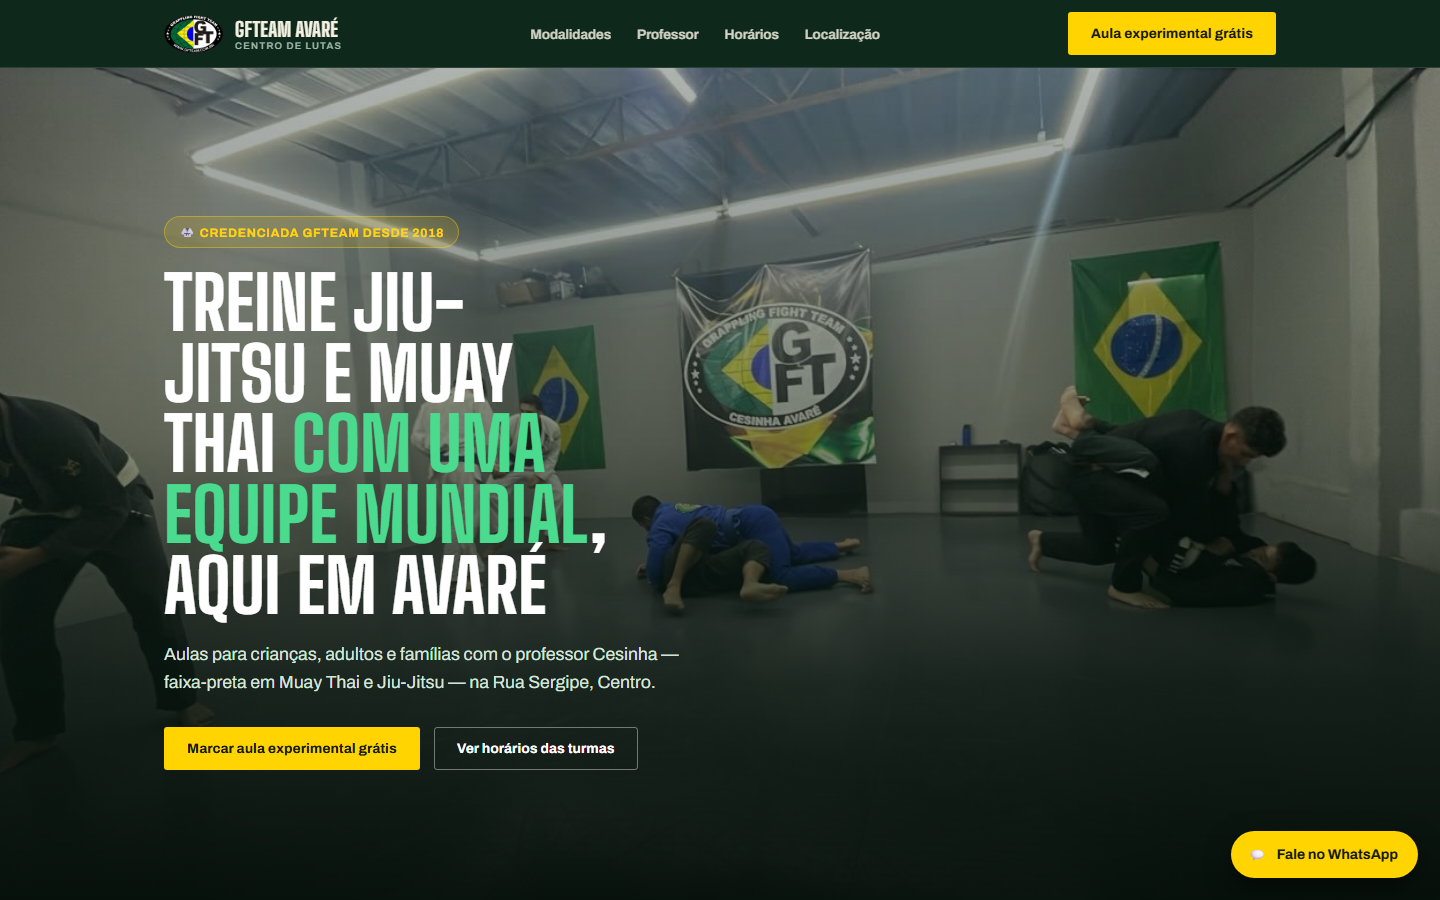
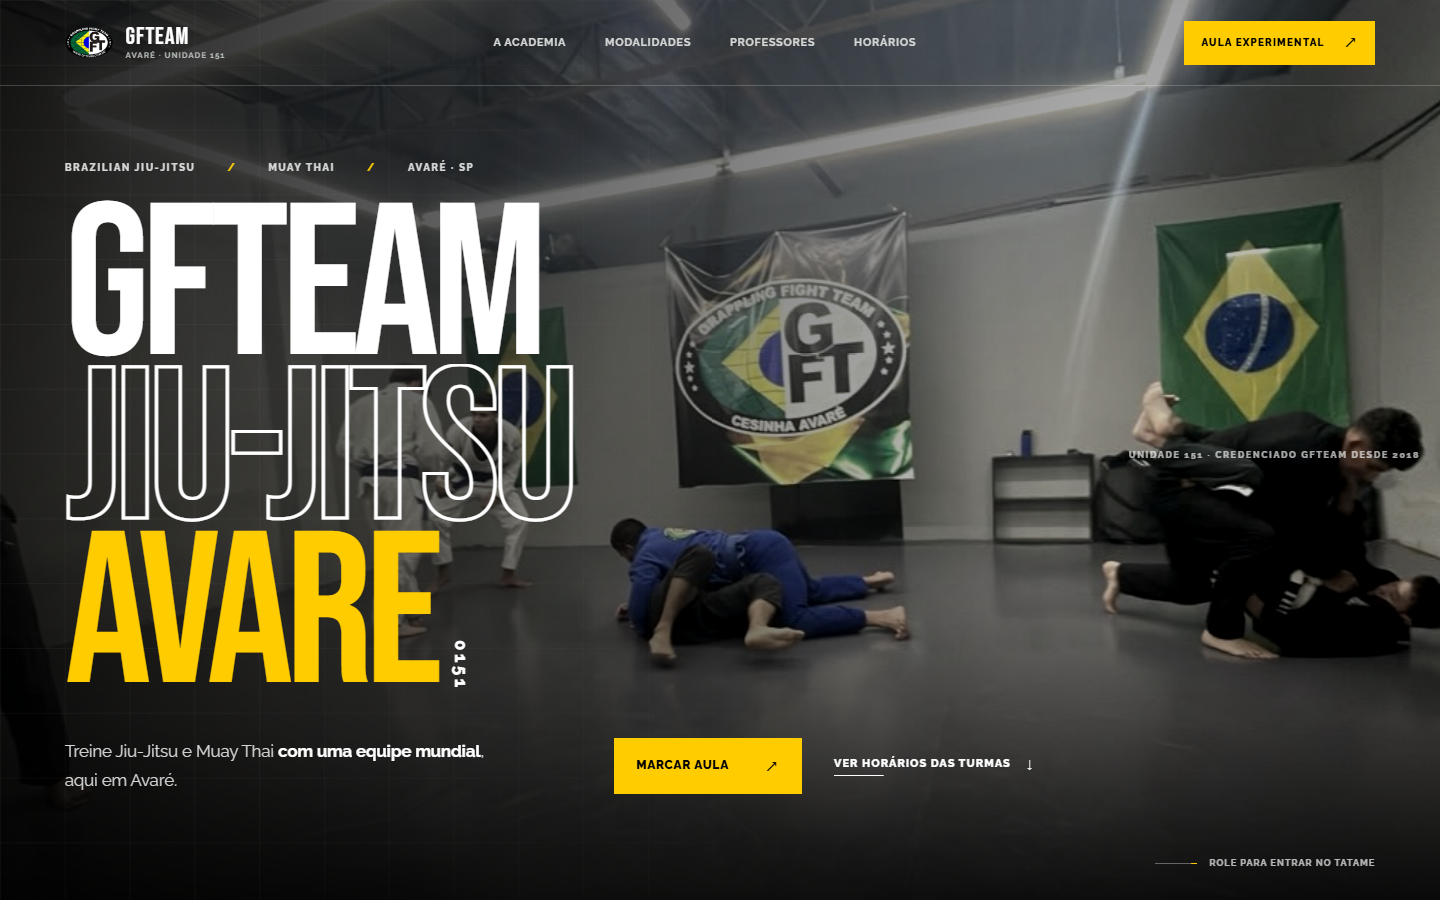
Refactor code structure for improved readability and maintainability

diff --git a/cases.html b/cases.html
@@ -26,16 +26,16 @@
       </a>
 
       <nav class="nav" id="site-nav" aria-label="Navegação principal">
-        <a href="index.html#solucoes" data-cursor="link">Soluções</a>
-        <a href="index.html#sobre" data-cursor="link">Sobre</a>
-        <a href="index.html#processo" data-cursor="link">Processo</a>
-        <a href="cases.html" data-cursor="link" aria-current="page">Cases</a>
-        <a href="#contato" data-cursor="link">Contato</a>
-        <a href="equipe.html" data-cursor="link">Equipe</a>
-        <a href="#contato" class="nav-contact-mobile">Iniciar projeto <span aria-hidden="true">↗</span></a>
+        <a href="./index.html#solucoes" data-cursor="link">Soluções</a>
+        <a href="./index.html#sobre" data-cursor="link">Sobre</a>
+        <a href="./index.html#processo" data-cursor="link">Processo</a>
+        <a href="./cases.html" data-cursor="link" aria-current="page">Cases</a>
+        <a href="./index.html#contato" data-cursor="link">Contato</a>
+        <a href="./equipe.html" data-cursor="link">Equipe</a>
+        <a href="./index.html#contato" class="nav-contact-mobile">Iniciar projeto <span aria-hidden="true">↗</span></a>
       </nav>
 
-      <a class="button button--compact magnetic header-cta" href="#contato" data-cursor="cta"><span>Iniciar projeto</span><i aria-hidden="true">↗</i></a>
+      <a class="button button--compact magnetic header-cta" href="./index.html#contato" data-cursor="cta"><span>Iniciar projeto</span><i aria-hidden="true">↗</i></a>
       <button class="nav-toggle" type="button" aria-expanded="false" aria-controls="site-nav" aria-label="Abrir menu"><span></span><span></span></button>
     </div>
   </header>
@@ -60,12 +60,21 @@
     <article class="case-study section" id="gf-team">
       <div class="shell">
         <header class="case-study__header reveal">
-          <div><p class="kicker">Case 01 / Landing Page / Esporte</p><h2>GF Team <span>Avaré</span></h2></div>
+          <div>
+            <div class="case-study__identity">
+              <div class="case-study__logo-slot" data-logo-slot="logo-gfteam">
+                <img src="assets/img/cases/logo-gfteam.png" alt="Logo da GF Team Avaré" loading="lazy" decoding="async" onerror="this.closest('.case-study__logo-slot').classList.add('is-empty'); this.remove();" />
+                <span aria-hidden="true">LOGO / EM BREVE</span>
+              </div>
+              <p class="kicker">Case 01 / Landing Page / Esporte</p>
+            </div>
+            <h2>GF Team <span>Avaré</span></h2>
+          </div>
           <p class="case-study__summary">Uma presença digital direta para apresentar a academia, orientar novos alunos e conduzir o primeiro contato.</p>
         </header>
         <figure class="case-study__visual reveal">
           <img src="assets/img/cases/gf-team.png" alt="Página inicial do projeto GF Team Avaré" width="1440" height="900" decoding="async" />
-          <figcaption>Interface / página inicial</figcaption>
+          <figcaption>Print / GitHub Pages / página inicial</figcaption>
         </figure>
         <div class="case-study__details reveal">
           <section class="case-detail"><p class="kicker">Contexto</p><h3>Informação para públicos diferentes.</h3><p>A academia reúne modalidades como Jiu-Jitsu e Muay Thai para crianças, adultos e famílias. O projeto precisava organizar essa oferta e deixar horários, professor e localização fáceis de encontrar.</p></section>
@@ -79,12 +88,21 @@
     <article class="case-study case-study--offset section" id="new-style">
       <div class="shell">
         <header class="case-study__header reveal">
-          <div><p class="kicker">Case 02 / Site Institucional / Barbearia</p><h2>New Style <span>Barbearia</span></h2></div>
+          <div>
+            <div class="case-study__identity">
+              <div class="case-study__logo-slot" data-logo-slot="logo-new-style">
+                <img src="assets/img/cases/logo-new-style.png" alt="Logo da New Style Barbearia" loading="lazy" decoding="async" onerror="this.closest('.case-study__logo-slot').classList.add('is-empty'); this.remove();" />
+                <span aria-hidden="true">LOGO / EM BREVE</span>
+              </div>
+              <p class="kicker">Case 02 / Site Institucional / Barbearia</p>
+            </div>
+            <h2>New Style <span>Barbearia</span></h2>
+          </div>
           <p class="case-study__summary">Um site de uma página que traduz o ambiente da barbearia e encurta o caminho até o agendamento.</p>
         </header>
         <figure class="case-study__visual reveal">
           <img src="assets/img/cases/new-style-barbearia.png" alt="Página inicial do projeto New Style Barbearia" width="1440" height="900" loading="lazy" decoding="async" />
-          <figcaption>Interface / página inicial</figcaption>
+          <figcaption>Print / GitHub Pages / página inicial</figcaption>
         </figure>
         <div class="case-study__details reveal">
           <section class="case-detail"><p class="kicker">Contexto</p><h3>Serviço local, contato sem espera.</h3><p>A New Style trabalha com cortes, barba e sobrancelha sob agendamento. A presença digital precisava apresentar o serviço, o profissional e o espaço sem afastar o visitante da ação principal.</p></section>
@@ -98,12 +116,21 @@
     <article class="case-study section" id="mundo-encantado">
       <div class="shell">
         <header class="case-study__header reveal">
-          <div><p class="kicker">Case 03 / Catálogo Digital / Eventos</p><h2>Mundo Encantado <span>Avaré</span></h2></div>
+          <div>
+            <div class="case-study__identity">
+              <div class="case-study__logo-slot" data-logo-slot="logo-mundo-encantado">
+                <img src="assets/img/cases/logo-mundo-encantado.png" alt="Logo do Mundo Encantado Avaré" decoding="async" onerror="this.closest('.case-study__logo-slot').classList.add('is-empty'); this.remove();" />
+                <span aria-hidden="true">LOGO / EM BREVE</span>
+              </div>
+              <p class="kicker">Case 03 / Catálogo Digital / Eventos</p>
+            </div>
+            <h2>Mundo Encantado <span>Avaré</span></h2>
+          </div>
           <p class="case-study__summary">Um catálogo digital para organizar uma oferta ampla e transformar a consulta em um orçamento pelo WhatsApp.</p>
         </header>
         <figure class="case-study__visual reveal">
           <img src="assets/img/cases/mundo-encantado.png" alt="Página inicial do projeto Mundo Encantado Avaré" width="1440" height="900" loading="lazy" decoding="async" />
-          <figcaption>Interface / página inicial</figcaption>
+          <figcaption>Print / GitHub Pages / página inicial</figcaption>
         </figure>
         <div class="case-study__details reveal">
           <section class="case-detail"><p class="kicker">Contexto</p><h3>Muitos itens, uma única festa.</h3><p>A empresa atende Avaré e região com locação e montagem para eventos. Estruturas, mesas, louças, brinquedos, móveis e decoração precisavam aparecer de forma navegável e compreensível.</p></section>

diff --git a/css/cases.css b/css/cases.css
@@ -26,7 +26,17 @@
 .case-study { scroll-margin-top: 76px; background: #09090a; border-bottom: 1px solid var(--line); }
 .case-study--offset { background: #0d0d0f; }
 .case-study__header { display: grid; grid-template-columns: 1.2fr .8fr; align-items: end; gap: clamp(3rem, 8vw, 9rem); margin-bottom: clamp(3rem, 6vw, 5.5rem); }
-.case-study__header .kicker { margin-bottom: 1.6rem; }
+.case-study__identity { display: flex; align-items: center; gap: 1.25rem; min-height: 128px; margin-bottom: 1.6rem; }
+.case-study__identity .kicker { margin: 0; }
+.case-study__logo-slot { position: relative; display: grid; place-items: center; flex: 0 0 220px; width: 220px; height: 128px; overflow: hidden; border: 1px solid var(--line); background: rgba(255,255,255,.025); }
+.case-study__logo-slot img { display: block; max-width: calc(100% - 1.25rem); max-height: calc(100% - 1rem); width: auto; height: auto; object-fit: contain; }
+.case-study__logo-slot[data-logo-slot="logo-mundo-encantado"] img { max-width: calc(100% - 2rem); max-height: calc(100% - 2rem); }
+.case-study__logo-slot span { display: none; color: var(--gray-dark); font: 700 .48rem var(--mono); letter-spacing: .1em; text-align: center; }
+.case-study__logo-slot.is-empty span { display: block; }
+.case-study__logo-slot.is-empty::before, .case-study__logo-slot.is-empty::after { content: ""; position: absolute; width: 8px; height: 8px; border-color: var(--red-hot); }
+.case-study__logo-slot.is-empty::before { top: 8px; left: 8px; border-top: 1px solid; border-left: 1px solid; }
+.case-study__logo-slot.is-empty::after { right: 8px; bottom: 8px; border-right: 1px solid; border-bottom: 1px solid; }
+.case-study__header > div > .kicker, .case-study__identity .kicker { margin-bottom: 0; }
 .case-study__header h2 { color: var(--paper); font: 500 clamp(3.8rem, 7.2vw, 8rem)/.87 var(--display); letter-spacing: -.075em; }
 .case-study__header h2 span { display: block; color: var(--red-hot); }
 .case-study__summary { max-width: 42ch; justify-self: end; color: var(--gray); font-size: 1.05rem; line-height: 1.75; }
@@ -80,6 +90,9 @@
   .cases-hero__orbit { width: 98vw; right: -58vw; opacity: .45; }
   .cases-hero__meta { display: none; }
   .case-study__header h2 { font-size: clamp(3rem, 14vw, 4.4rem); }
+  .case-study__identity { align-items: flex-start; flex-direction: column; gap: 1rem; min-height: 0; }
+  .case-study__identity { min-height: 0; }
+  .case-study__logo-slot { flex-basis: 96px; width: 148px; height: 96px; }
   .case-study__summary { font-size: .92rem; }
   .case-study__visual { aspect-ratio: 1.2; }
   .case-study__visual::before, .case-study__visual::after { width: 38px; height: 38px; }
